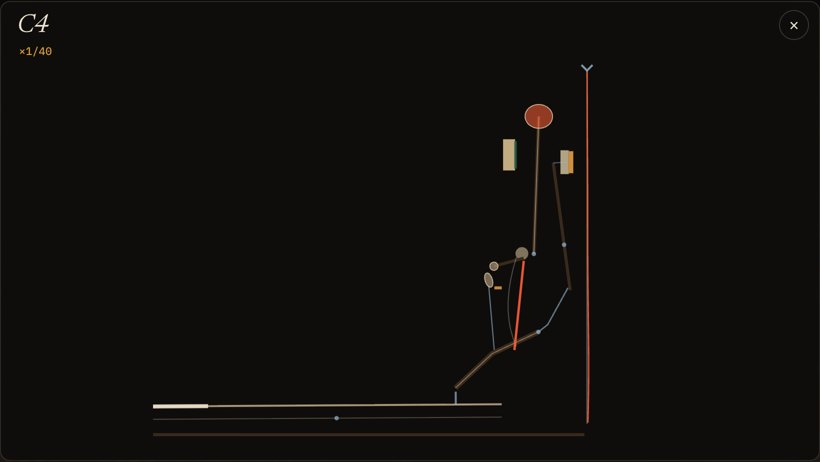
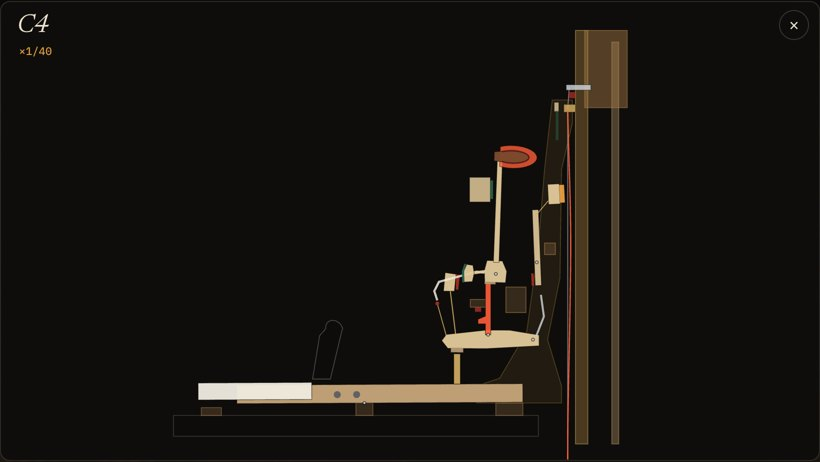
2D round: before/after sheets (desktop, phone, the close-up panels; the upright first) and notes

Changed region(s): [[0.1829, 0.0606, 0.7927, 1.0]]

diff --git a/artifacts/realistic-3d/final-2d/NOTES.md b/artifacts/realistic-3d/final-2d/NOTES.md
@@ -1,0 +1,77 @@
+# 2D visualizations: notes
+
+Branch `improve/2d-visualizations`, from `main` at `c253ed4`. Done to `.autopilot/BRIEF-2D.md`.
+Each instrument had at least two critique/fix cycles, the upright first and the most.
+
+The lead did the upright, its close-up and the final integration pass. Three parallel passes did the
+grand, the bowed strings and the winds, and they were merged here. Each instrument's folder has its
+own NOTES.md, with the cycles' ranked critiques: `upright/`, `grand/`, `bowed/` and `winds/`.
+
+## Sheets
+* `before-after.jpg`: all seven at desktop size, c253ed4 against this round, the upright first.
+* `before-after-phone.jpg`: the same on a 390 × 844 phone.
+* `before-after-panels.jpg`: the pianos' close-up panels (the upright's, then the grand's).
+* The per-instrument folders have the final shots and their own before/after.
+
+## What changed
+* **Upright** (the biggest rework).
+  * It used to be a harp-like fan of strings under two rows of dashes. Now it is the upright from
+    the front with its panels off, in true proportion from floor to lid, built from the 3D upright's
+    measures.
+  * The plate has its pin field and openings onto the soundboard. The board's modes glow only in
+    those openings.
+  * The strings are overstrung, with their bridges.
+  * The action stands on the keybed: wippens, backchecks, catchers and bridle tapes, the shanks, a
+    deep hammer rail, the hammers on the strike line, and the underdampers. Then the muffler, the
+    open fallboard and a quiet row of keys.
+  * The parts sit at the 3D's even 13.9 mm pitch.
+  * A slight oblique projection makes a strike, a damper's lift and the half-blow rest visible.
+  * Static parts are cached in two layers.
+* **Upright close-up.** Redrawn as a to-scale section in the grand's style, from the 3D upright's
+  parts.
+  * It is now an underdamper: the damper was drawn above the hammer before.
+  * The rail sits under the head.
+  * The soft pedal's half-blow and the muffler work live.
+* **Grand** (`grand/`). The plan from above with the lid off, built from the 3D grand:
+  * the rim, the gold plate with its windows, rosettes and struts;
+  * the pin rows, agraffes and capo bar;
+  * the overstrung bass;
+  * the hammers and the dampers 37 mm behind the strike line;
+  * the una corda, sustain and sostenuto, readable.
+
+  Its close-up is a to-scale section of the Renner/Steinway action. Both close-ups stay piano-only.
+* **Violin, viola, cello** (`bowed/`).
+  * The outline and f-holes are traced from the Met photographs, with varnish, purfling, and the bass
+    bar and soundpost.
+  * A front-view head and pegs.
+  * Real string gauges, the bridge, the tailpiece and fine tuner, the cello's endpin.
+  * A true-length bow, with its frog and hair, string crossings and bow changes.
+  * The Helmholtz corner, shifts and vibrato.
+  * The mirrored orientation is fixed.
+* **Flute** (`winds/`).
+  * A Boehm flute from above, polished silver, its keys closing for the engine's note through the
+    mechanism (the chart is now shared with the 3D model).
+  * The standing wave shows inside the bore, plus quiet lobes outside it.
+  * The jet at the lip plate.
+* **Trumpet** (`winds/`).
+  * An orthographic view of the 3D wrap, in lacquered gold.
+  * Pistons, slides (the 3rd kicks), ferrules and the Bessel bell.
+  * The air path lit through the pressed valves, the standing wave along it, the lips' buzz.
+
+## Leftovers, honestly
+* **The x/depth anisotropy.** Every piano view takes x from the keyboard (about 1130 px/m) and fits
+  depth or height to the stage (270–470 px/m). So angles are exaggerated and parts look squat.
+* **The bowed instruments.**
+  * The true-scale bow runs off the desktop stage.
+  * Bow force is read from the bow trace's caption: the visual frame has no force field.
+  * The scroll is constructed, not traced.
+* **The flute** is small on a phone.
+* **The trumpet.** The engine's brass wave keeps an antinode at the bell, which is hidden by the 1/r
+  taper in the flare. The grip control overlaps the bell on desktop.
+* **The room's wavefronts** start from a fixed point in `stage.ts` for the bowed and wind
+  instruments.
+* **Found by the 2D passes in the 3D models.**
+  * The 3D grand jack tripped the wrong way: fixed in this round.
+  * The 3D grand's backcheck doesn't meet the hammer's tail.
+  * The 3D trumpet's 2nd crook is long (134 mm where a semitone needs 88).
+  * The 3D flute's A6–C7 fall back to the foot's length.
